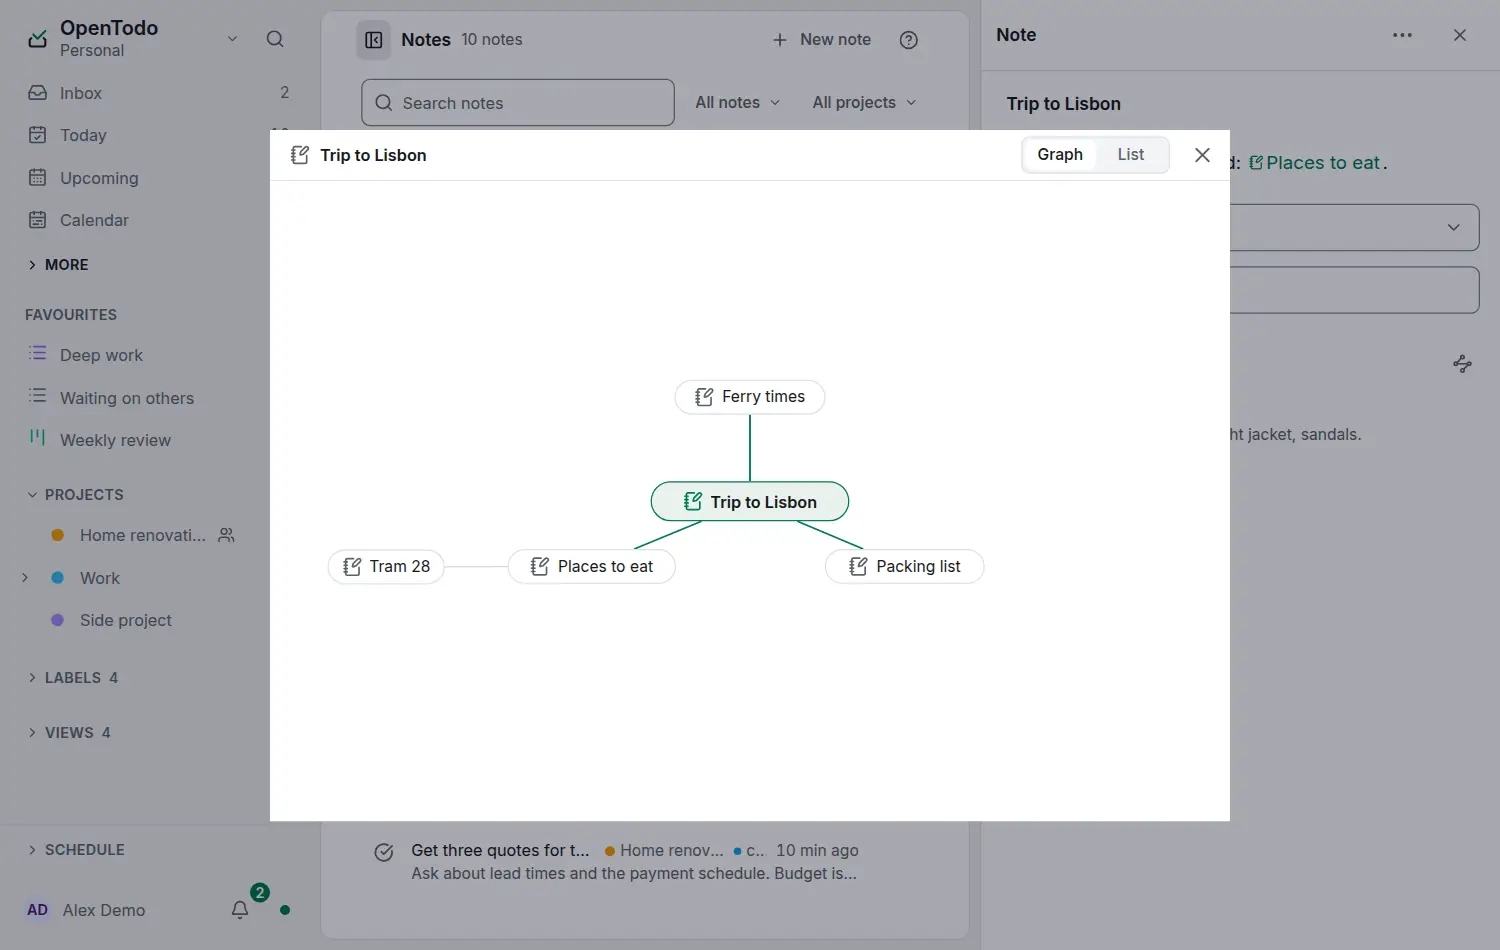
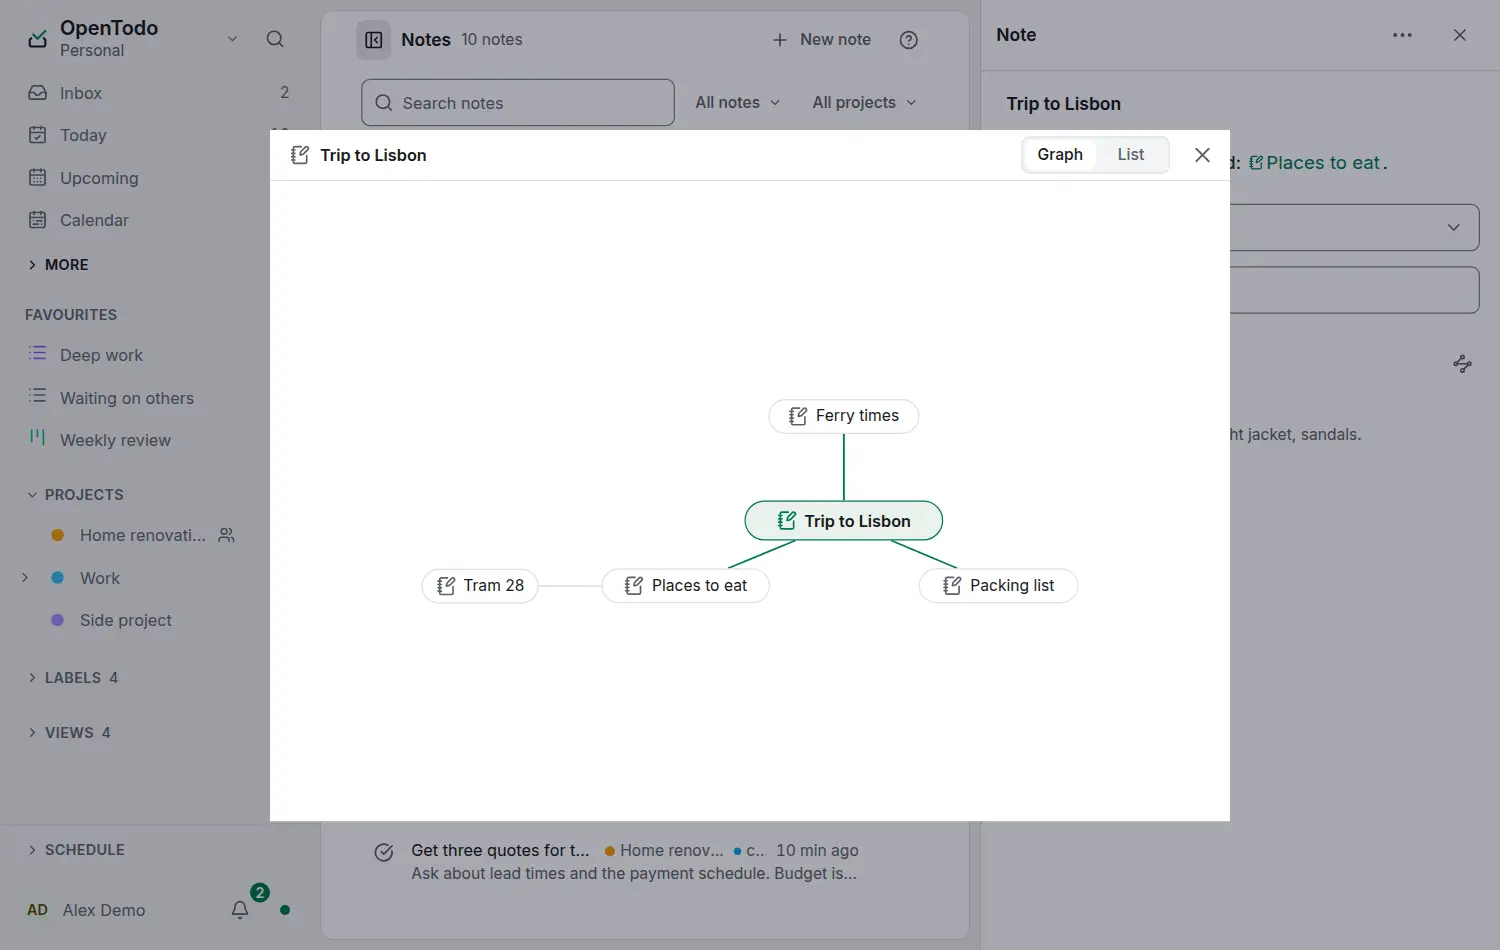
Connections: the drawing centred in the canvas, short titles kept whole (notes-graph review)
The nodes' bounding box is centred both ways. Labels go up to 22
characters; after a level fits, each cut label, shortest title first,
gets as much of its title as still fits, so one long title no longer
shortens the others.

Claude-Session: https://claude.ai/code/session_01Bkw4TZLFDGeMdZR3vWZF13

diff --git a/web/src/lib/graphLayout.ts b/web/src/lib/graphLayout.ts
@@ -25,7 +25,7 @@ export type NeighboursOf = (key: string) => readonly GraphItem[]
 export const RING1_CAP = 24
 export const RING2_CAP = 48
 /** Labels are cut to this many characters; the full title is the node's name. */
-export const LABEL_MAX = 24
+export const LABEL_MAX = 22
 
 export interface Neighbourhood {
   centre: GraphItem
@@ -169,9 +169,11 @@ export function cut(title: string, n: number): string {
 const pillWidth = (label: string) => Math.ceil(PILL_PAD + CHAR_W * [...label].length)
 
 // From the most readable picture to the most compact: ring-1 and ring-2 label lengths (0: icons only).
+// The labelled levels go from the longest shortest label down (most titles whole first).
 const LEVELS: readonly (readonly [number, number])[] = [
-  [24, 24], [24, 16], [20, 16], [20, 12], [16, 12], [16, 10], [12, 10], [12, 8], [10, 8],
-  [24, 0], [16, 0], [10, 0], [0, 0],
+  ...[22, 18, 16, 14, 12, 10].flatMap((l1) => [22, 18, 16, 14, 12, 10, 8].map((l2) => [l1, l2] as const))
+    .sort((a, b) => Math.min(b[0], b[1]) - Math.min(a[0], a[1]) || b[0] - a[0] || b[1] - a[1]),
+  [22, 0], [16, 0], [10, 0], [0, 0],
 ]
 // Where the inner ring sits between the centre and the outer ring (0: close to the centre).
 const SPREADS = [0.35, 0.1, 0.6, 0.85]
@@ -183,20 +185,44 @@ const SPREADS = [0.35, 0.1, 0.6, 0.85]
  */
 export function layout(n: Neighbourhood, box: Box, narrow = false): GraphLayout {
   const outer = n.ring2.length > 0 || n.more2 > 0
+  // Without an outer ring only the inner ring's label length matters: one level per length.
+  const seen = new Set<number>()
   const levels = LEVELS.filter(([l1, l2]) => !narrow || (l1 > 0 && (l2 > 0 || !outer)))
+    .filter(([l1]) => outer || (!seen.has(l1) && !!seen.add(l1)))
   let last: GraphLayout | null = null
   for (const [l1, l2] of levels) {
-    if (!outer && l2 !== LEVELS[0][1] && l2 !== 0) continue
     for (const spread of outer ? SPREADS : [0]) {
       last = place(n, box, l1, l2, spread)
-      if (last.fits) return last
+      if (last.fits) return lengthen(n, box, l1, l2, spread, last)
     }
   }
   // Nothing fits: the most compact picture this screen allows, flagged.
   return last!
 }
 
-function place(n: Neighbourhood, box: Box, l1: number, l2: number, spread: number): GraphLayout {
+/**
+ * Gives each cut label, shortest title first, as much of its title as still fits (up to
+ * LABEL_MAX), so one long title does not shorten every other.
+ */
+function lengthen(n: Neighbourhood, box: Box, l1: number, l2: number, spread: number, fitted: GraphLayout): GraphLayout {
+  const own = new Map<string, number>()
+  let best = fitted
+  // Shortest titles first: the most of them shown whole.
+  const shortened = fitted.nodes.filter((p) => p.ring !== 0 && !p.compact && p.truncated)
+    .sort((a, b) => [...a.item.title].length - [...b.item.title].length || (a.item.key < b.item.key ? -1 : 1))
+  for (const p of shortened) {
+    const full = Math.min(LABEL_MAX, [...p.item.title].length)
+    for (let chars = full; chars > [...p.label].length; chars -= 3) {
+      own.set(p.item.key, chars)
+      const next = place(n, box, l1, l2, spread, own)
+      if (next.fits) { best = next; break }
+      own.delete(p.item.key)
+    }
+  }
+  return best
+}
+
+function place(n: Neighbourhood, box: Box, l1: number, l2: number, spread: number, own?: ReadonlyMap<string, number>): GraphLayout {
   const { width, height } = box
   const cx = width / 2
   const cy = height / 2
@@ -209,7 +235,8 @@ function place(n: Neighbourhood, box: Box, l1: number, l2: number, spread: numbe
     w: Math.min(Math.ceil(CENTRE_PAD + CENTRE_CHAR_W * [...centreLabel].length), width - 2 * MARGIN),
   }]
   const markers: PlacedMarker[] = []
-  const sized = (item: GraphItem, ring: 1 | 2, chars: number): PlacedNode => {
+  const sized = (item: GraphItem, ring: 1 | 2, level: number): PlacedNode => {
+    const chars = level === 0 ? 0 : own?.get(item.key) ?? level
     if (chars === 0) return { item, ring, x: 0, y: 0, w: COMPACT, h: COMPACT, label: '', truncated: true, compact: true }
     const label = cut(item.title, chars)
     return { item, ring, x: 0, y: 0, w: pillWidth(label), h: NODE_H, label, truncated: label !== item.title, compact: false }
@@ -269,6 +296,15 @@ function place(n: Neighbourhood, box: Box, l1: number, l2: number, spread: numbe
     if (n.more2 > 0) markers.push({ ring: 2, count: n.more2, ...at((angle1(slots1 - 1) + (angle1(0) + 2 * Math.PI)) / 2, rx2, ry2, markerSize), ...markerSize })
   }
   nodes.push(...r1, ...r2)
+  // Centre the drawing, not the item: the nodes' bounding box sits in the middle both ways.
+  const all = [...nodes, ...markers]
+  const left = Math.min(...all.map((p) => p.x - p.w / 2))
+  const right = Math.max(...all.map((p) => p.x + p.w / 2))
+  const top = Math.min(...all.map((p) => p.y - p.h / 2))
+  const bottom = Math.max(...all.map((p) => p.y + p.h / 2))
+  const dx = width / 2 - (left + right) / 2
+  const dy = height / 2 - (top + bottom) / 2
+  for (const p of all) { p.x += dx; p.y += dy }
   for (const p of nodes) { p.x = round(p.x); p.y = round(p.y) }
   for (const m of markers) { m.x = round(m.x); m.y = round(m.y) }
   const { edges, clear } = lines(n, nodes, markers)

diff --git a/web/src/lib/graphLayout.test.ts b/web/src/lib/graphLayout.test.ts
@@ -123,18 +123,22 @@ describe('layout', () => {
     const b = layout(neighbourhood(g.get('note:trip'), g.of), { width: 640, height: 400 })
     expect(b).toEqual(a)
     expect(a.fits).toBe(true)
-    // The centre in the middle, the first inner node straight above it.
-    expect(a.nodes[0]).toMatchObject({ ring: 0, x: 320, y: 200 })
-    expect(a.nodes[1].x).toBe(320)
-    expect(a.nodes[1].y).toBeLessThan(200)
+    // The first inner node straight above the centre, and the drawing centred in the canvas both ways.
+    expect(a.nodes[0].ring).toBe(0)
+    expect(a.nodes[1].x).toBe(a.nodes[0].x)
+    expect(a.nodes[1].y).toBeLessThan(a.nodes[0].y)
+    const all = [...a.nodes, ...a.markers]
+    const mid = (lo: number, hi: number) => (lo + hi) / 2
+    expect(Math.abs(mid(Math.min(...all.map((p) => p.x - p.w / 2)), Math.max(...all.map((p) => p.x + p.w / 2))) - 320)).toBeLessThan(1)
+    expect(Math.abs(mid(Math.min(...all.map((p) => p.y - p.h / 2)), Math.max(...all.map((p) => p.y + p.h / 2))) - 200)).toBeLessThan(1)
   })
 
-  it('cuts labels to 24 characters, keeping the whole title on the item', () => {
+  it('cuts labels to 22 characters, keeping the whole title on the item', () => {
     const long = 'A very long note title that goes on and on'
     const h = graph([['note:a', 'note:b']], [item('note:a', long), item('note:b', 'B')])
     const l = layout(neighbourhood(h.get('note:a'), h.of), { width: 640, height: 400 })
-    expect(l.nodes[0].label).toBe(cut(long, 24))
-    expect([...l.nodes[0].label].length).toBeLessThanOrEqual(24)
+    expect(l.nodes[0].label).toBe(cut(long, 22))
+    expect([...l.nodes[0].label].length).toBeLessThanOrEqual(22)
     expect(l.nodes[0].truncated).toBe(true)
     expect(l.nodes[0].item.title).toBe(long)
   })
@@ -147,6 +151,15 @@ describe('layout', () => {
     expect(overlaps([...l.nodes, ...l.markers], { width: 358, height: 700 })).toBe(false)
     expect(l.nodes.every((p) => !p.compact && p.label !== '')).toBe(true)
     expect(blocked(l)).toEqual([])
+  })
+
+  it('a long title does not shorten the others: short titles stay whole', () => {
+    const h = graph(LISBON_LINKS, LISBON)
+    const l = layout(neighbourhood(h.get('note:trip'), h.of), { width: 736, height: 480 })
+    const label = (k: string) => l.nodes.find((p) => p.item.key === k)!.label
+    expect(label('note:times')).toBe('Ferry times')
+    expect(label('task:tickets')).toBe('Buy museum tickets')
+    expect(label('note:packing')).toBe('Packing list')
   })
 
   it('on a phone a picture whose labels do not fit says so (the List opens first)', () => {
